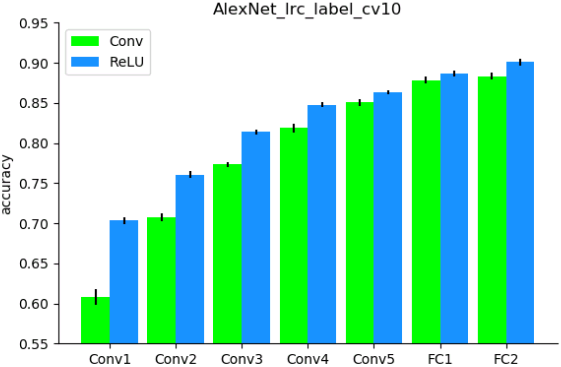
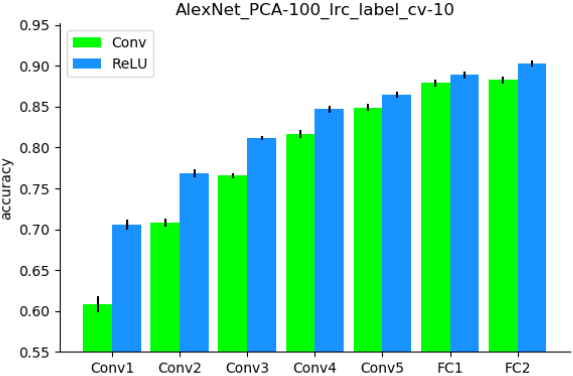
Docs: update probe_DNN tutorial

diff --git a/docs/tutorials/probe_DNN.rst b/docs/tutorials/probe_DNN.rst
@@ -12,60 +12,100 @@ Firstly, use :doc:`dnn_act <../docs/cmd/dnn_act>` to extract representations of 
    dnn_act -net AlexNet -layer conv1_relu conv2_relu conv3_relu conv4_relu conv5_relu fc1_relu fc2_relu -stim all_5000scenes.stim.csv -out AlexNet_relu.act.h5 -cuda
 
 To avoid the risk of overfitting with the limited training data, the dimension (i.e. the number of units) of the representations from each layer is reduced by PCA to retain the top 100 components.
-
-::
-
-   dnn_fe -act AlexNet.act.h5 -meth pca 100 -out AlexNet_PCA-100.act.h5
-   dnn_fe -act AlexNet_relu.act.h5 -meth pca 100 -out AlexNet_relu_PCA-100.act.h5
-
 Then, train a logistic regression model on the artificial representation from each layer to decode the stimulus category. The accuracy of the model is evaluated with a 10-fold cross validation.
 
 ::
 
-   dnn_probe -anal mv -act AlexNet_PCA-100.act.h5 -stim all_5000scenes.stim.csv -beh label -model lrc -cv 10 -out AlexNet_lrc_label_cv10
-   dnn_probe -anal mv -act AlexNet_relu_PCA-100.act.h5 -stim all_5000scenes.stim.csv -beh label -model lrc -cv 10 -out AlexNet_lrc_label_cv10
+    import os
+    import numpy as np
+    from os.path import join as pjoin
+    from sklearn.pipeline import make_pipeline
+    from sklearn.decomposition import PCA
+    from sklearn.linear_model import LogisticRegression
+    from dnnbrain.dnn.core import DnnProbe, Activation, Stimulus
+    
+    
+    def probe(fname):
+        
+        # load DNN activation
+        activ = Activation()
+        activ.load(fname)
+        
+        # load labels
+        stim = Stimulus()
+        stim.load('all_5000scenes.stim.csv')
+        labels = stim.get('label')[:, None]
+        
+        # build pipeline with PCA and LogisticRegression
+        pipe = make_pipeline(PCA(100), LogisticRegression())
+        
+        # initialize probe method with DNN activation
+        # mv: multivariate mapping
+        # 10-fold cross validation
+        probe = DnnProbe(activ, 'mv', pipe, 10)
+        
+        # probe label layer-wisely
+        probe_dict = probe.probe(labels)
+        
+        # save out
+        out_dir = 'AlexNet_PCA-100_lrc_label_cv-10'
+        for layer, data in probe_dict.items():
+            # prepare directory
+            trg_dir = pjoin(out_dir, layer)
+            if not os.path.isdir(trg_dir):
+                os.makedirs(trg_dir)
+            
+            # saving
+            for k, v in data.items():
+                np.save(pjoin(trg_dir, k), v)
+    
+    probe('AlexNet.act.h5')
+    probe('AlexNet_relu.act.h5')
+    
 
 Finally, we summarize and plot the results:
 
 ::
 
-   import numpy as np
-   
-   from scipy.stats import sem
-   from matplotlib import pyplot as plt
-   
-   # prepare layer names
-   layer_groups = [
-       ['conv1', 'conv2', 'conv3', 'conv4', 'conv5', 'fc1', 'fc2'],
-       ['conv1_relu', 'conv2_relu', 'conv3_relu', 'conv4_relu', 'conv5_relu', 'fc1_relu', 'fc2_relu']]
-   n_row = len(layer_groups)
-   n_col = len(layer_groups[0])
-   
-   # calculate mean and SEM
-   ys = np.zeros((n_row, n_col))
-   ys_err = np.zeros((n_row, n_col))
-   for row_idx, layers in enumerate(layer_groups):
-       for col_idx, layer in enumerate(layers):
-           scores = np.load(f'AlexNet_lrc_label_cv10/{layer}/score.npy').squeeze()
-           ys[row_idx, col_idx] = np.mean(scores)
-           ys_err[row_idx, col_idx] = sem(scores)
-   
-   # plot
-   plt.figure(figsize=(6, 4))
-   x = np.arange(n_col)
-   width = 0.43
-   plt.bar(x - width/2, ys[0], width, yerr=ys_err[0], color='lime', label='Conv')
-   plt.bar(x + width/2, ys[1], width, yerr=ys_err[1], color='dodgerblue', label='ReLU')
-   plt.ylim(0.55)
-   plt.gca().spines['top'].set_visible(False)
-   plt.gca().spines['right'].set_visible(False)
-   plt.title('AlexNet_lrc_label_cv10')
-   plt.xticks(x, ['Conv1', 'Conv2', 'Conv3', 'Conv4', 'Conv5', 'FC1', 'FC2'])
-   plt.ylabel('accuracy')
-   plt.legend()
-   plt.tight_layout()
-   plt.show()
-   
+    import numpy as np
+    from os.path import join as pjoin
+    from scipy.stats import sem
+    from matplotlib import pyplot as plt
+    
+    data_dir = 'AlexNet_PCA-100_lrc_label_cv-10'
+    
+    # prepare layer names
+    layer_groups = [
+        ['conv1', 'conv2', 'conv3', 'conv4', 'conv5', 'fc1', 'fc2'],
+        ['conv1_relu', 'conv2_relu', 'conv3_relu', 'conv4_relu', 'conv5_relu', 'fc1_relu', 'fc2_relu']]
+    n_row = len(layer_groups)
+    n_col = len(layer_groups[0])
+    
+    # calculate mean and SEM
+    ys = np.zeros((n_row, n_col))
+    ys_err = np.zeros((n_row, n_col))
+    for row_idx, layers in enumerate(layer_groups):
+        for col_idx, layer in enumerate(layers):
+            scores = np.load(pjoin(data_dir, layer, 'score.npy')).squeeze()
+            ys[row_idx, col_idx] = np.mean(scores)
+            ys_err[row_idx, col_idx] = sem(scores)
+    
+    # plot
+    plt.figure(figsize=(6, 4))
+    x = np.arange(n_col)
+    width = 0.43
+    plt.bar(x - width/2, ys[0], width, yerr=ys_err[0], color='lime', label='Conv')
+    plt.bar(x + width/2, ys[1], width, yerr=ys_err[1], color='dodgerblue', label='ReLU')
+    plt.ylim(0.55)
+    plt.gca().spines['top'].set_visible(False)
+    plt.gca().spines['right'].set_visible(False)
+    plt.title(data_dir)
+    plt.xticks(x, ['Conv1', 'Conv2', 'Conv3', 'Conv4', 'Conv5', 'FC1', 'FC2'])
+    plt.ylabel('accuracy')
+    plt.legend()
+    plt.tight_layout()
+    plt.show()
+    
 
 As shown in Figure 1, the classification accuracy progressed with the depth of Conv layers, indicating higher layers encode more animate information than lower layers. Moreover, the ReLU operation within each convolutional layer plays a significant role in improving the representation capacities for animate information.
 
